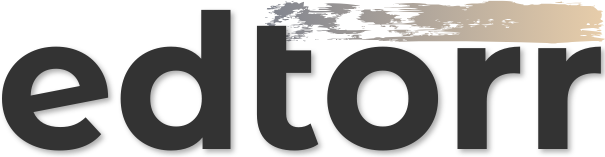
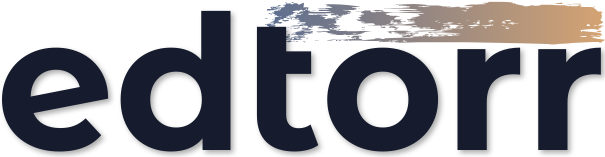
Minor updates to the brand colors and typography

diff --git a/vendor/scss/_variables.scss b/vendor/scss/_variables.scss
@@ -8,9 +8,9 @@
 $white:                     #ffffff;
 
 $primary:                   #8c744a; //2f55d4
-$secondary:                 #7f838e; //#5a6d90;
-$success:                   #2eca8b;
-$warning:                   #f17425;
+$secondary:                 #5a6d90; //#5a6d90;
+$success:                   #2ba874;
+$warning:                   #e1622f;
 $info:                      #17a2b8;
 $danger:                    #e43f52;
 $dark:                      #363126;//#3c4858;
